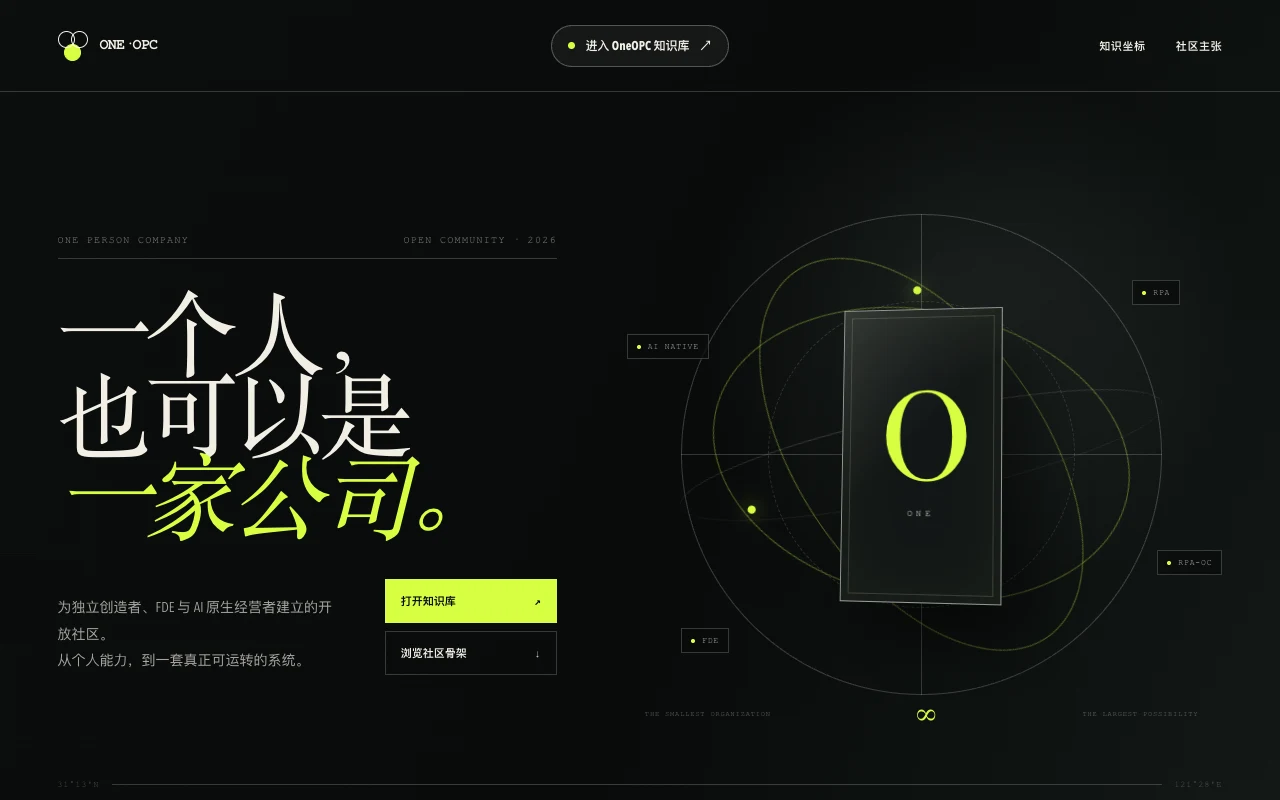
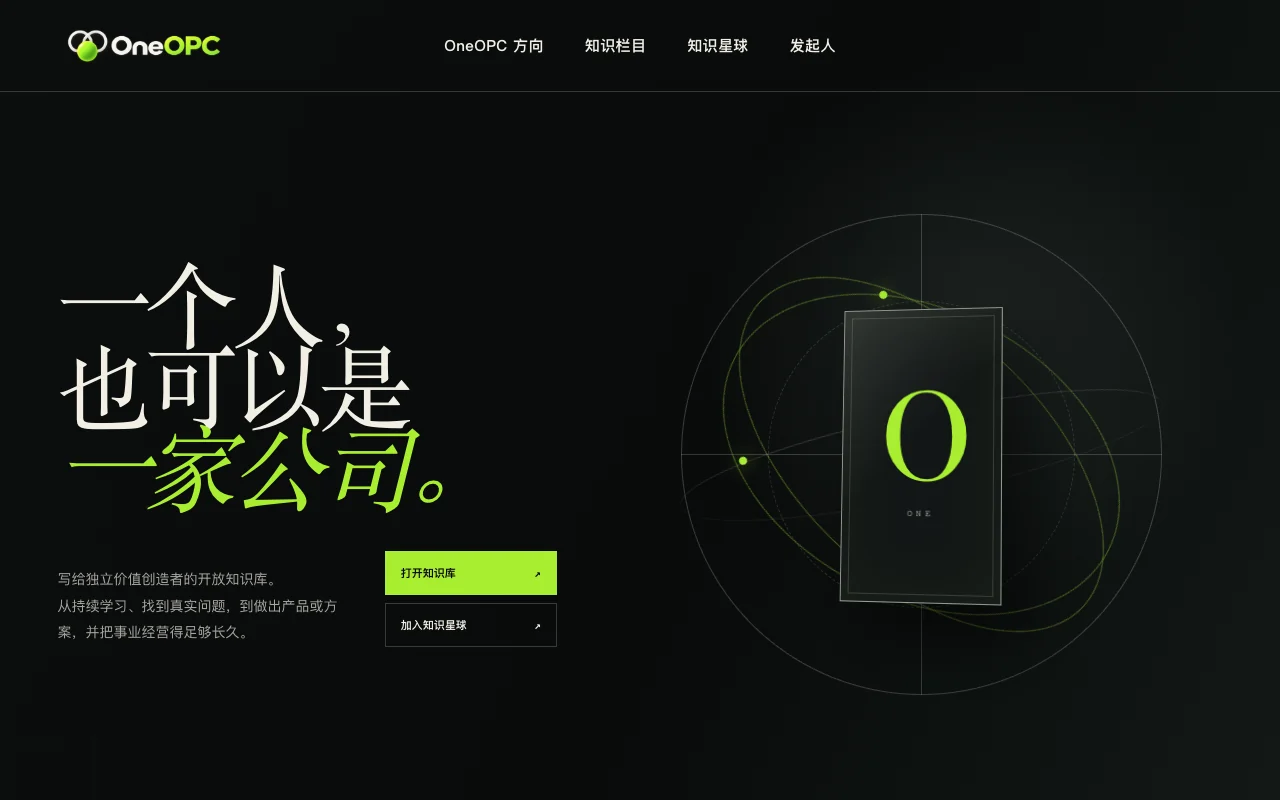
Refresh OneOPC and market heatmap product messaging

diff --git a/software.html b/software.html
@@ -420,14 +420,14 @@
             <a class="software-card" href="https://www.oneopc.ai/" target="_blank" rel="noopener" style="--card-index: 0" data-umami-event="software_card_click" data-umami-props='{"target":"oneopc_site"}'>
                 <div class="card-cover product-screenshot-cover">
                     <picture>
-                        <img class="product-screenshot" src="images/oneopc-product-screenshot.webp" alt="OneOPC 一人公司知识库新版首页截图" width="1280" height="800" loading="lazy" decoding="async">
+                        <img class="product-screenshot" src="images/oneopc-product-screenshot.webp" alt="OneOPC 一人公司、FDE 与 AI 原生组织知识库首页" width="1280" height="800" loading="lazy" decoding="async">
                     </picture>
                 </div>
                 <div class="card-body">
-                    <span class="card-tag"><i class="fas fa-robot"></i> 一人公司知识库</span>
-                    <h2 class="card-title">OneOPC.ai</h2>
+                    <span class="card-tag"><i class="fas fa-robot"></i> 开放知识库与实践社区</span>
+                    <h2 class="card-title">OneOPC</h2>
                     <p class="card-description">
-                        面向独立创造者的一人公司知识库，提供可执行的工作流、实用模板、克制工具栈与有来源的真实经营案例。
+                        面向 OPC 与 FDE 的开放知识库与实践社区，聚焦一人公司、终身学习、AI 原生组织、企业 AI 交付、自由生活与跨境出海，让学习持续转化为真实业务结果。
                     </p>
                 </div>
             </a>
@@ -451,14 +451,14 @@
             <a class="software-card" href="https://stock.wenyaoyefei.com/" target="_blank" rel="noopener" style="--card-index: 2" data-umami-event="software_card_click" data-umami-props='{"target":"stock_site"}'>
                 <div class="card-cover product-screenshot-cover">
                     <picture>
-                        <img class="product-screenshot" src="images/stock-product-screenshot.webp" alt="股票行情云图产品界面截图" width="1280" height="800" loading="lazy" decoding="async">
+                        <img class="product-screenshot" src="images/stock-product-screenshot.webp" alt="大盘云图 A 股、港股与美股市场热力图界面" width="1280" height="800" loading="lazy" decoding="async">
                     </picture>
                 </div>
                 <div class="card-body">
-                    <span class="card-tag"><i class="fas fa-chart-line"></i> 投资工具</span>
-                    <h2 class="card-title">股票行情云图</h2>
+                    <span class="card-tag"><i class="fas fa-chart-line"></i> 实时市场热力图</span>
+                    <h2 class="card-title">大盘云图</h2>
                     <p class="card-description">
-                        一个直观的云端港股与美股看盘分析面板，提供实时行情、关键指标与可视化数据云图，助力投资者高效洞察市场动态。
+                        覆盖 A 股、港股与美股的实时市场云图，以面积呈现流通市值、颜色呈现涨跌，支持指数切换、个股搜索、K 线详情、历史回看与截图分享。
                     </p>
                 </div>
             </a>

diff --git a/index.html b/index.html
@@ -3032,16 +3032,16 @@
             </div>
 
             <div class="home-product-gallery oneopc-only">
-                <a href="https://www.oneopc.ai/" target="_blank" rel="noopener" class="oneopc-feature" data-umami-event="homepage_product_click" data-umami-props='{"target":"oneopc_site"}' aria-label="进入 OneOPC AI 原生成长与经营平台">
+                <a href="https://www.oneopc.ai/" target="_blank" rel="noopener" class="oneopc-feature" data-umami-event="homepage_product_click" data-umami-props='{"target":"oneopc_site"}' aria-label="进入 OneOPC 一人公司、FDE 与 AI 原生组织知识库">
                     <div class="oneopc-feature-copy">
-                        <span class="oneopc-feature-kicker">AI NATIVE PROFESSIONAL PLATFORM / AI 原生专业个体平台</span>
+                        <span class="oneopc-feature-kicker">OPEN KNOWLEDGE BASE / OPC 实践知识库</span>
                         <h3>OneOPC</h3>
-                        <p class="oneopc-feature-lead"><strong>面向 OPC 与 FDE 的 AI 原生成长与经营平台。</strong><span>从 AI 能力、真实项目，到产品、客户与经营，帮助专业个体把能力转化为收入，把收入沉淀为长期资产，建立属于自己的可持续事业。</span></p>
-                        <div class="oneopc-feature-points" aria-label="OneOPC 成长与经营方法论">
-                            <span>LEARN · 学习</span>
-                            <span>BUILD · 创造</span>
-                            <span>EARN · 经营</span>
-                            <span>OWN · 拥有</span>
+                        <p class="oneopc-feature-lead"><strong>写给独立价值创造者的开放知识库。</strong><span>从持续学习、找到真实问题，到做出产品或方案，并把事业经营得足够长久。</span></p>
+                        <div class="oneopc-feature-points" aria-label="OneOPC 核心知识方向">
+                            <span>OPC · 独立经营</span>
+                            <span>FDE · 企业交付</span>
+                            <span>AI · 原生组织</span>
+                            <span>ASSET · 投资配置</span>
                         </div>
                         <span class="oneopc-feature-action">进入 OneOPC <i class="fas fa-arrow-right" aria-hidden="true"></i></span>
                     </div>
